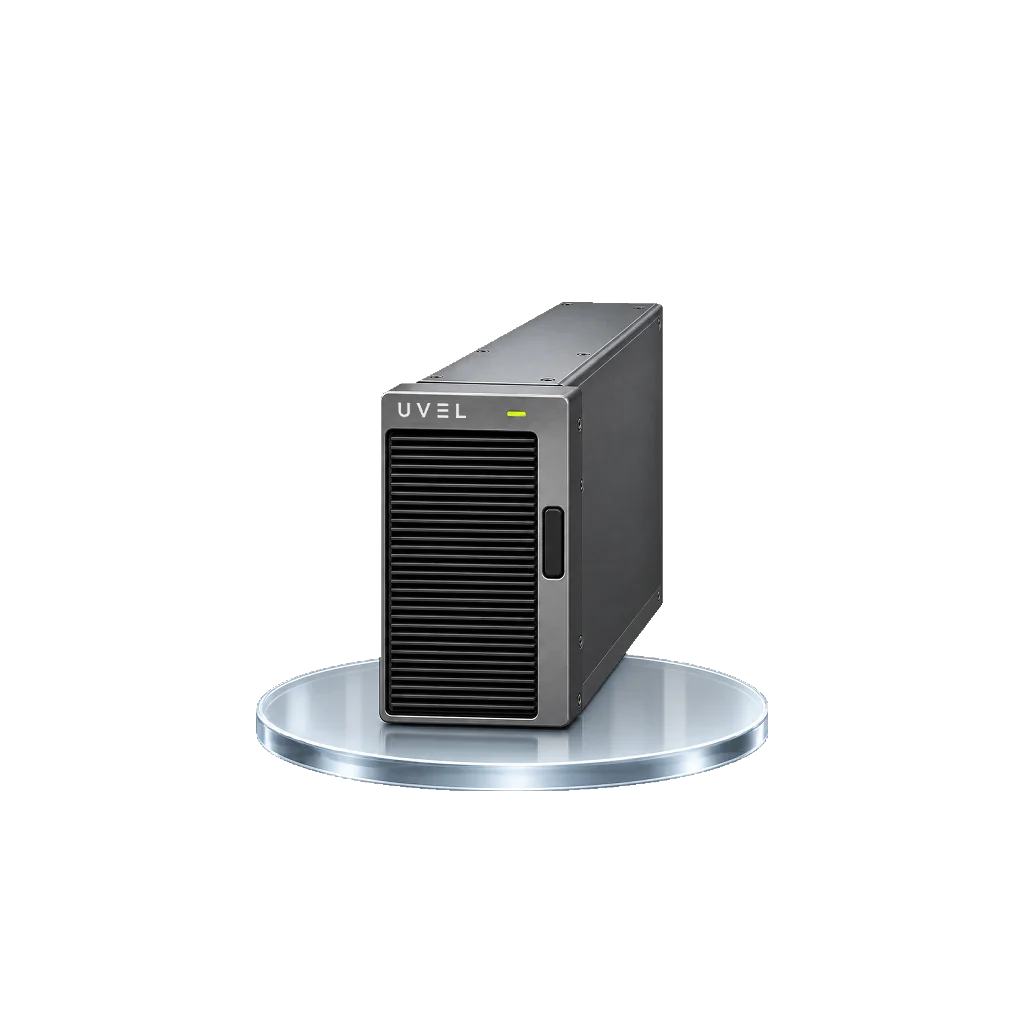
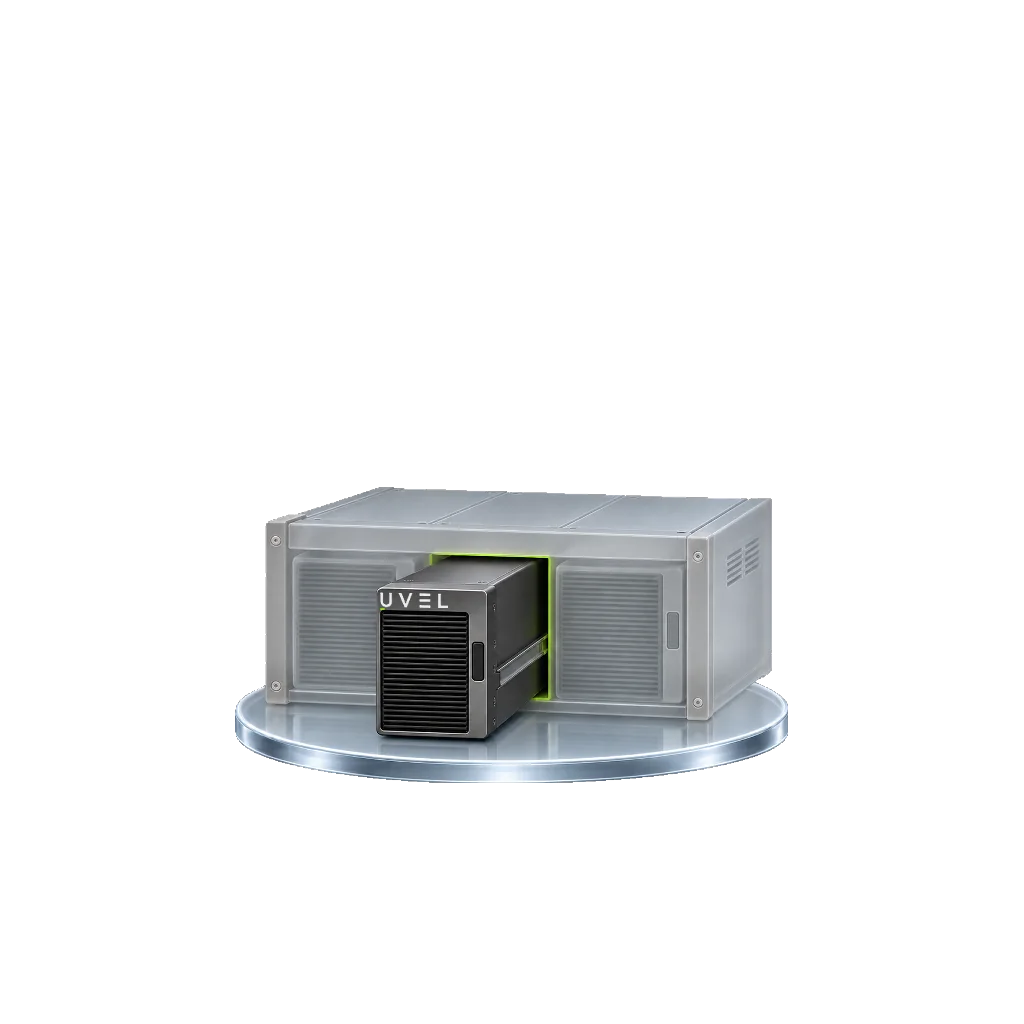
Swap in the final device art: redrawn Pro v2 and Cloud Share
- Pro v2 redrawn: three-column grille, lime light bar on top, graphite body,
  larger than Pro. Cloud Share redrawn as one solid blade pulled out of a
  translucent whole machine ("a share of the whole").
- The other renders rescaled to the new proportions (Cloud 54 / S1 58 /
  Pro 62 / Pro v2 71 / P1 87 / P2 91 %); S1 is byte-identical.
- PRD §7.1 card-art rule and the P-66 changelog entry describe the new
  Cloud Share and how Pro v2 differs from Pro; changelog now names the
  commits as rebased onto the latest test.

Changed region(s): [[0.2188, 0.2812, 0.7812, 0.7812]]

diff --git a/docs/前端产品更新日志.md b/docs/前端产品更新日志.md
@@ -3,8 +3,8 @@
 - 商品详情页 Hero 卡「累计已售 / 本周剩余」下方新增一行安静提示：「[三节点图标] 每台为团队增加 12,990 算力点」（Cloud Share 为「每份为团队增加 … 算力点」；英文 `Each unit/share adds {n} compute pts to your team`，越南语 `Mỗi máy/phần cộng {n} điểm tính toán cho nhóm`）。数字按语言千分位（越南语用「.」），统计数字字体；其余为 12px 弱化正文色，无分隔线、无强调色、不可点击。只在商品详情显示，商品卡与结算页不显示；不受「隐藏数据」眼睛遮盖（商品信息，非个人数据）。越南语 320px 窄屏折成两行，不溢出。
 - 数据来自商城目录 `GET /api/store/catalog` 新增的可选字段 `computePoints`（单件计入团队的算力点，与后端 `nx_product.compute_points` 同值，非负整数）；缺失、null 或 0 时整行隐藏，类型错误按目录契约违规处理。依赖后端待办 B25（uvel-docs 任务 20），后端下发前真实环境不显示此行。本地预览目录按价格 ×10 下发演示值（S1 12,990 / Pro 49,990 / Pro v2 59,990 / Rack P1 129,990 / Rack P2 199,990 / Cloud Share 199）。
 - 商城「算力阶梯」由手机 + 3 档硬件扩为手机 + 全部 5 档硬件，自下而上：手机、Box S1、Box Pro、Box Pro v2、Rack P1、Rack P2，标题显示「6 档」。各档读目录对应 SKU 的 `dailyEarn`，缺失时该行显示「—」；进度条透明度自下而上 0.25 → 0.75 逐档递增，两档 Rack 的 $/天 用品牌色；「←你」标记规则不变，不再为已拥有的 Pro v2 / Rack P2 额外插入一行；名称列放不下标记时（如英文 Box Pro v2 ←you）标记折到第二行，不再被截断。新增文案 `ladderProV2`「Box Pro v2」、`ladderRackP2`「Rack P2」（三语同英文）。顶部倍数 Hero 与「手机 vs Box S1」对比卡不变。
-- 商城设备图换成新套图：同一透明圆盘底座、同一机位，机身体积按档位递进（Box S1 < Box Pro < Box Pro v2 < Rack P1 < Rack P2），Cloud Share 改为单个算力模块。6 张 1024px 透明 WebP 放在 `src/static/img/products/uvel-pedestal/<SKU>.webp`（替换原有 Pro v2、Rack P1、Rack P2 三张，新增 S1、Pro、Cloud Share 三张）；本地预览夹具的 6 个商品都改用这一套，设计审查夹具里仅有的 S1、Pro 两个商品同步改用。App 只显示目录下发的 `imageUrl`，正式环境商品图由运营在 PC 后台上传，需换成这一套。
-- 相关提交：f42d1f0a（算力点与阶梯）、b84a2fb6（设备图）、24240989（「←你」折行与 B25 编号），均为变基到最新 test 后的提交。PRD 主文档 §7.1（算力阶梯；商品卡主图套图规则，同时更正旧的「datacenter 风 4U 服务器」描述）、§7.2（同时按现行页面更正「页面自上而下」列表与 Cloud Share variant 的旧描述）。
+- 商城设备图换成新套图：同一透明圆盘底座、同一机位，机身体积按档位递进（Box S1 < Box Pro < Box Pro v2 < Rack P1 < Rack P2）；Box Pro v2 与 Box Pro 的区别是三列格栅、顶部柠檬绿灯条、石墨黑机身且更大；Cloud Share 为从半透明整机中抽出的一片算力模块，表达「整体中分出的一份」。6 张 1024px 透明 WebP 放在 `src/static/img/products/uvel-pedestal/<SKU>.webp`（替换原有 Pro v2、Rack P1、Rack P2 三张，新增 S1、Pro、Cloud Share 三张）；本地预览夹具的 6 个商品都改用这一套，设计审查夹具里仅有的 S1、Pro 两个商品同步改用。App 只显示目录下发的 `imageUrl`，正式环境商品图由运营在 PC 后台上传，需换成这一套。
+- 相关提交：92756d31（算力点与阶梯）、e191e7ab（设备图）、8cdc0a5a（「←你」折行与 B25 编号）、本条同批的定稿图提交（Pro v2 与 Cloud Share 重画、六张按新比例缩放），均为变基到最新 test 后的提交。PRD 主文档 §7.1（算力阶梯；商品卡主图套图规则，同时更正旧的「datacenter 风 4U 服务器」描述）、§7.2（同时按现行页面更正「页面自上而下」列表与 Cloud Share variant 的旧描述）。
 
 ## 2026-11-03：外部付款明细的商品金额按两位显示
 

diff --git a/PRD/NexGrid_产品功能架构设计文档_v3.7.md b/PRD/NexGrid_产品功能架构设计文档_v3.7.md
@@ -1413,7 +1413,7 @@ flowchart TD
 > **商品卡不展示回本天数 / 年化 / 首年净利**——避免在卡片层引导用户自行算年化(数字可信不自曝,§13.1)。回本 / 年化 / 首年净利等 ROI 派生值仅在商品详情页(§7.2)与结账页展示。
 
 **卡片元素**:
-- 商品主图(目录 `imageUrl`)+ Best Seller / Trending badge + 库存告警(<50 时显示 `NN LEFT`)。主图套图(2026-11-03 P-66)统一为同一透明圆盘底座、同一机位,机身体积按档位递进:Box S1 < Box Pro < Box Pro v2 < Rack P1 < Rack P2;Cloud Share 为单个算力模块。
+- 商品主图(目录 `imageUrl`)+ Best Seller / Trending badge + 库存告警(<50 时显示 `NN LEFT`)。主图套图(2026-11-03 P-66)统一为同一透明圆盘底座、同一机位,机身体积按档位递进:Box S1 < Box Pro < Box Pro v2 < Rack P1 < Rack P2;Box Pro v2 与 Box Pro 的区别是三列格栅、顶部柠檬绿灯条、石墨黑机身且更大;Cloud Share 为从半透明整机中抽出的一片算力模块,表达「整体中分出的一份」。
 - 标题 + 副标 + GPU · VRAM 规格小行
 - 上述 4 行 ROI hero metric
 - 评分行(⭐ X.X · N reviews · N sold)
